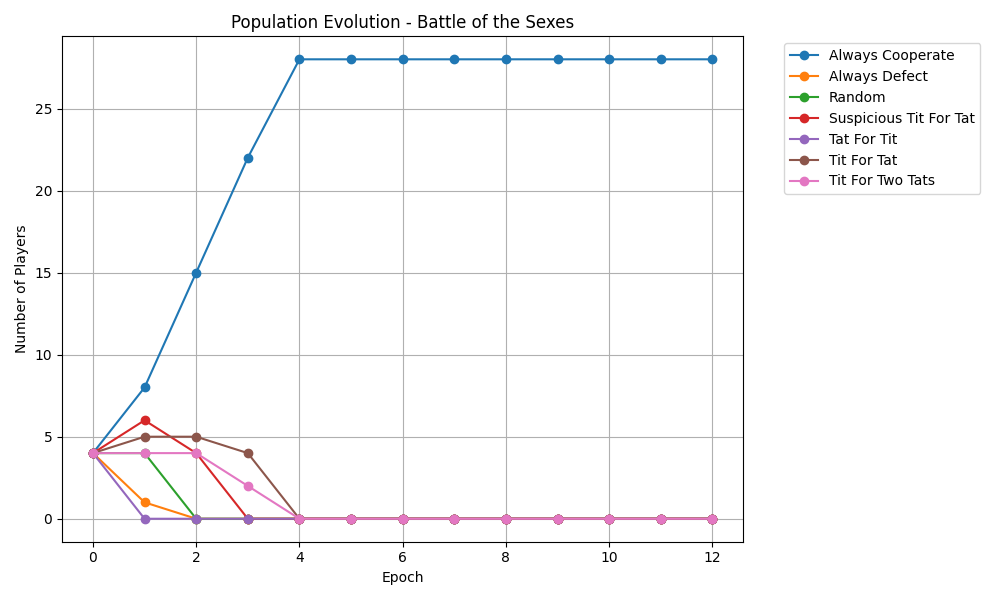
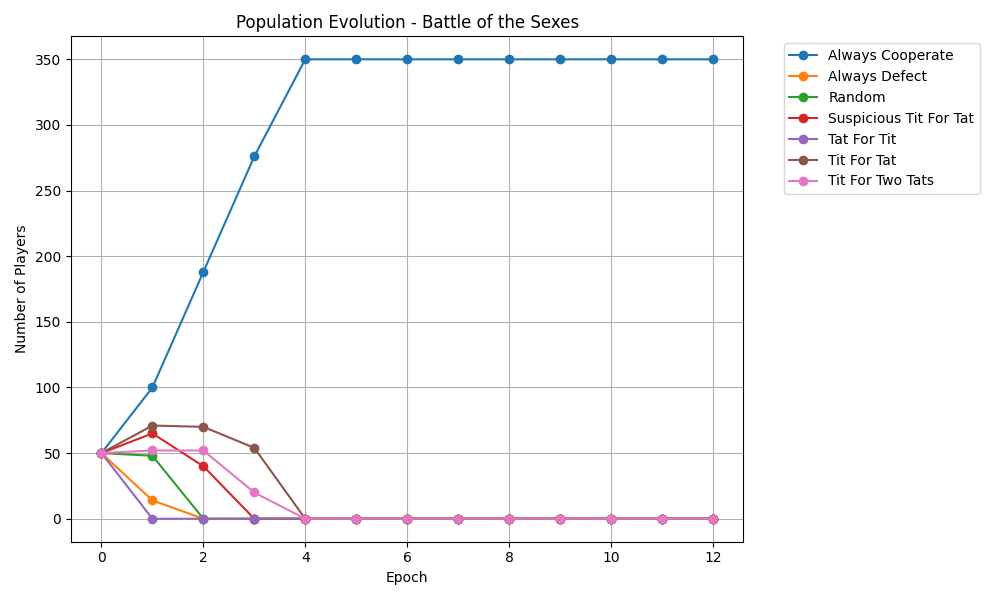
Fix biological simulation tie-breaking, dynamically allow group population growth, and integrate tqdm output

diff --git a/main.py b/main.py
@@ -8,12 +8,14 @@ from player_classes import *
 from game_machine import *
 from graph import *
 from plotter import Plotter
+from tqdm import tqdm
+from collections import Counter
 
 
 CONSECUTIVE_MOVES = 10
 EPOCHS = 12
 GAME_MACHINES = {
-    "Prisioner`s Dilemma": GameMachine(
+    "Prisoner's Dilemma": GameMachine(
         payoff_matrix={
             Move.COOPERATE: {Move.COOPERATE: (2, 2), Move.DEFECT: (0, 3)},
             Move.DEFECT: {Move.COOPERATE: (3, 0), Move.DEFECT: (1, 1)},
@@ -40,37 +42,21 @@ GAME_MACHINES = {
 }
 
 
-def generate_players():
-    return [
-        AlwaysCooperatePlayer(),
-        AlwaysCooperatePlayer(),
-        AlwaysCooperatePlayer(),
-        AlwaysCooperatePlayer(),
-        AlwaysDefectPlayer(),
-        AlwaysDefectPlayer(),
-        AlwaysDefectPlayer(),
-        AlwaysDefectPlayer(),
-        TitForTatPlayer(),
-        TitForTatPlayer(),
-        TitForTatPlayer(),
-        TitForTatPlayer(),
-        SuspiciousTitForTatPlayer(),
-        SuspiciousTitForTatPlayer(),
-        SuspiciousTitForTatPlayer(),
-        SuspiciousTitForTatPlayer(),
-        TitForTwoTatsPlayer(),
-        TitForTwoTatsPlayer(),
-        TitForTwoTatsPlayer(),
-        TitForTwoTatsPlayer(),
-        TatForTitPlayer(),
-        TatForTitPlayer(),
-        TatForTitPlayer(),
-        TatForTitPlayer(),
-        RandomPlayer(),
-        RandomPlayer(),
-        RandomPlayer(),
-        RandomPlayer(),
+def generate_players(instances_per_class=50):
+    classes = [
+        AlwaysCooperatePlayer,
+        AlwaysDefectPlayer,
+        TitForTatPlayer,
+        SuspiciousTitForTatPlayer,
+        TitForTwoTatsPlayer,
+        TatForTitPlayer,
+        RandomPlayer,
     ]
+    players = []
+    for cls in classes:
+        for _ in range(instances_per_class):
+            players.append(cls())
+    return players
 
 
 def run_epoch(players, game_machine, game_graph):
@@ -80,20 +66,24 @@ def run_epoch(players, game_machine, game_graph):
         player_2 = players[edge[1]]
         for i in range(CONSECUTIVE_MOVES):
             game_machine.play_game(player_1, player_2)
-        results[(player_1.name, player_2.name)] = (player_1.score, player_2.score)
+        results[(edge[0], edge[1])] = (player_1.score, player_2.score)
         player_1.finish_game()
         player_2.finish_game()
     return results
 
 
 def simulation_step(players, death_threshold=0.25, reproduction_threshold=0.75):
+    import random
     n = len(players)
 
     # assign survivability scores
+    # Randomly shuffle first so that players with identical run_scores don't 
+    # receive survivability purely based on their original list positions.
     players_copy = players.copy()
+    random.shuffle(players_copy)
     players_copy.sort(key=lambda x: x.run_score, reverse=False)
     for i, player in enumerate(players_copy):
-        player.survivability_score = i / (n - 1)
+        player.survivability_score = i / (n - 1) if n > 1 else 0.5
 
     # eliminate bottom 25% and reproduce top 75%
     new_generation = []
@@ -120,27 +110,26 @@ def main():
     game_plotter = Plotter()
     results = {}
     for game_name, game_machine in GAME_MACHINES.items():
-        players = generate_players()
-        game_graph = FullyConnectedGraph(len(players))
-
+        players = generate_players(instances_per_class=50)
+        
         # Record initial population
         game_plotter.record_epoch(game_name, 0, players)
 
-        for i in range(EPOCHS):
+        for i in tqdm(range(EPOCHS), desc=f"Simulating {game_name}", unit="epoch"):
+            # Instantiate graph here in case population size changes from simulation_step
+            game_graph = FullyConnectedGraph(len(players))
             run_epoch(players, game_machine, game_graph)
-            # print(f"Epoch {i+1} completed")
-            for j, player in enumerate(players):
-                # print(j, player.strategy_name, player.run_score)
-                pass
             players = simulation_step(players)
 
             # Record population after reproduction and death
             game_plotter.record_epoch(game_name, i + 1, players)
-            # print()
 
-        print(f"Final population for {game_name}:\n")
-        for i, player in enumerate(players):
-            print(i, player.strategy_name)
+        # Print concise summary
+        counts = Counter(p.strategy_name for p in players)
+        print(f"Final population for {game_name}:")
+        for strategy, count in counts.most_common():
+            print(f"  {strategy}: {count}")
+        print()
         print()
 
     print("Generating CSVs and Plots...")

diff --git a/README.md b/README.md
@@ -16,7 +16,7 @@ Below are the details for each game modeled in this simulation.
 *   **Defect / Defect:** Both get 1 point.
 
 **Population Evolution:**
-![Prisoner's Dilemma Population](output/prisioners_dilemma.png)
+![Prisoner's Dilemma Population](output/prisoner's_dilemma.png)
 
 ---
 
